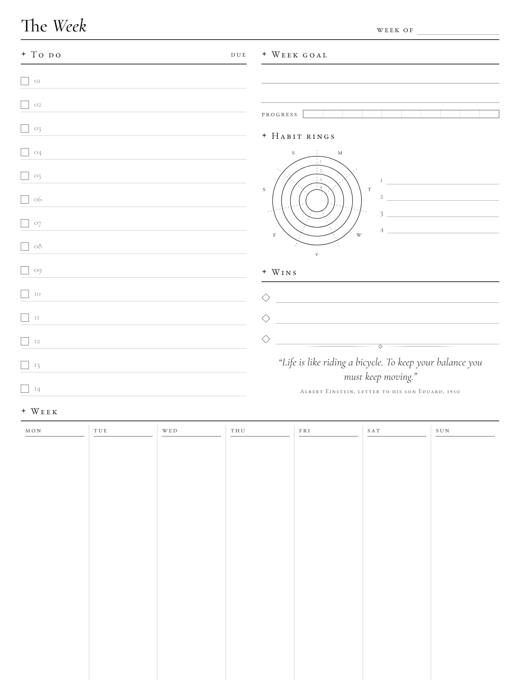
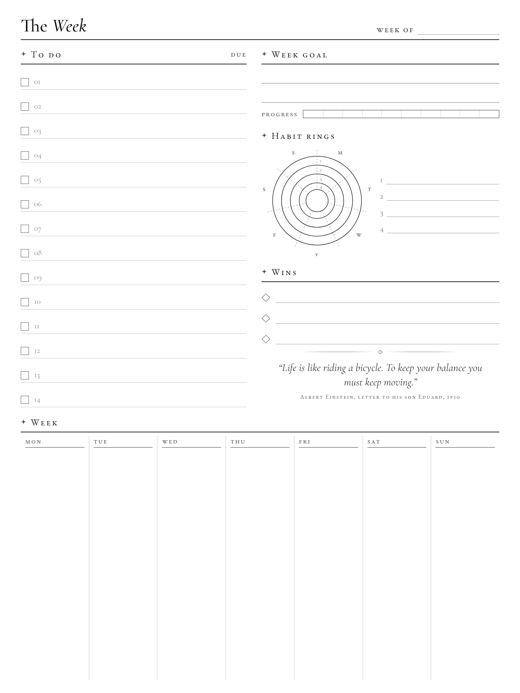
The Week: stop the diamond rule touching the last Wins line
The diamond rule above the quote sat 6 px below the last Wins line.
Make the top row 30 px taller (940 to 970) so the quote block has
room. The rule now sits 21 px below the line. The weekly grid is
30 px shorter, and the To do rows are about 2 px taller each.

Rebuild the-week.png from build.py and regenerate the website
thumbnail (grayscale, bicubic, 520 x 693). The other ten pages are
pixel-identical to before.

Claude-Session: https://claude.ai/code/session_01FGkkEPusu34njLr3or5eVP

Changed region(s): [[0.0308, 0.2121, 0.9538, 0.6667], [0.5231, 0.5152, 0.9231, 0.5758], [0.0308, 0.1212, 0.0615, 0.1515]]

diff --git a/templates/src/build.py b/templates/src/build.py
@@ -186,7 +186,7 @@ wins="".join("<div style='display:flex;align-items:flex-end;gap:14px;height:56px
 weekcols="".join(f"<div class=col style='flex:1;border-left:{'none' if i==0 else '1.5px solid #c4c4c4'};padding:0 12px'><div class=small style='border-bottom:1.5px solid #333;padding-bottom:4px'>{d}</div></div>" for i,d in enumerate(days))
 def week(intent):
     return doc("The <i>Week</i>", [("week of",220)], f"""
-<div style="display:flex;gap:40px;height:{900 if intent else 940}px">
+<div style="display:flex;gap:40px;height:{900 if intent else 970}px">
  <div class=col style="width:610px">{lbl("To do","due")}<div class="top col" style="padding-top:2px;flex:1">{todo(0)}</div></div>
  <div class=col style="flex:1">
   {lbl("Week goal")}<div class="ruled top" style="height:106px"></div><div style="display:flex;align-items:center;gap:14px"><span class=small style="padding-top:16px">progress</span><div style="flex:1">{prog}</div></div>{GAP(30)}
